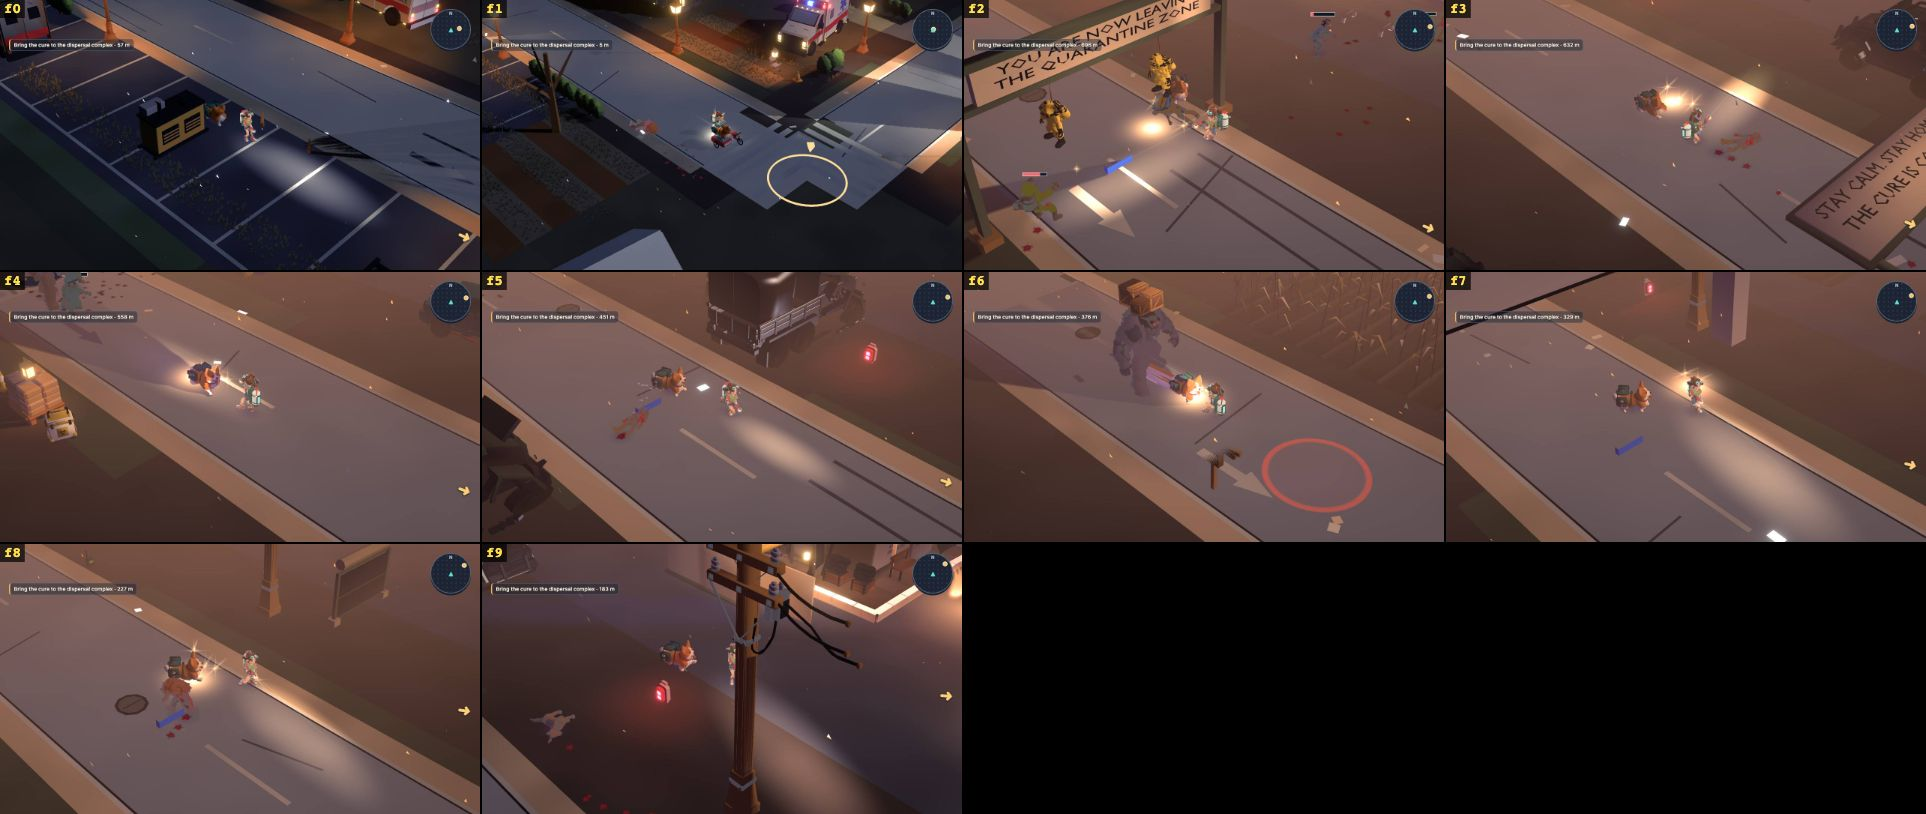
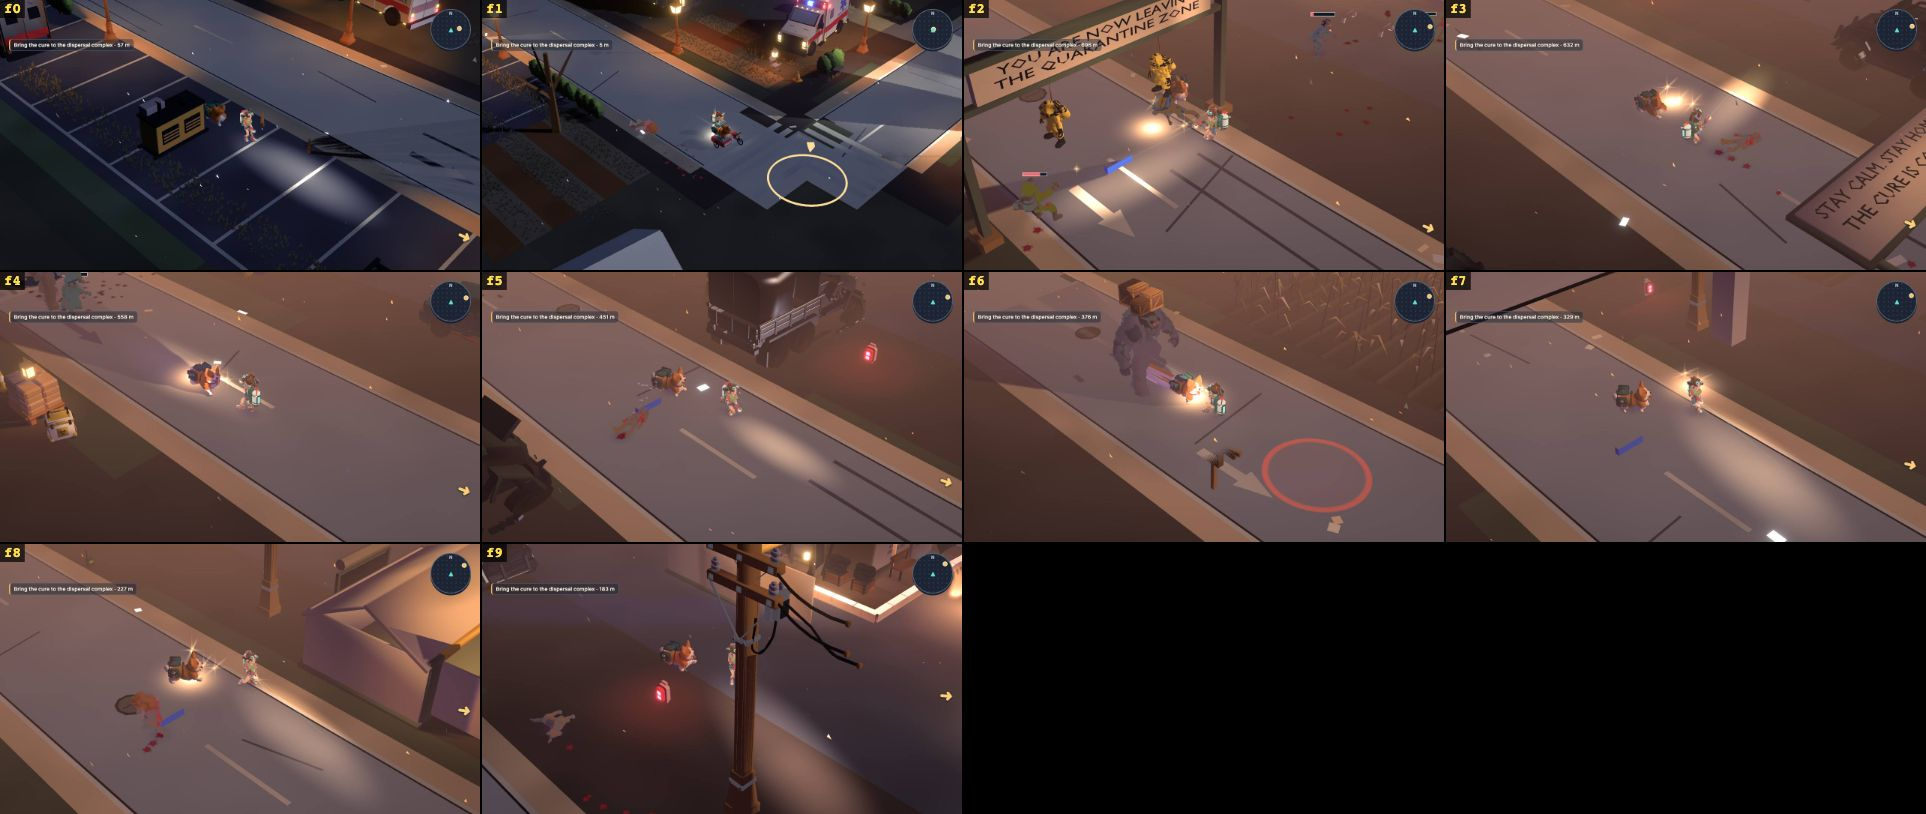
Bring hospital tent into finale camera view

Changed region(s): [[0.1558, 0.645, 0.2492, 0.9214], [0.0623, 0.8292, 0.1246, 0.9214]]

diff --git a/src/sim/missions/LevelTenEncounters.ts b/src/sim/missions/LevelTenEncounters.ts
@@ -358,7 +358,7 @@ export class LevelTenEncounters {
       if (group.setPiece === 'propaganda-billboard' && released.includes(group.id) && this.state.billboardFallAt === undefined &&
           Math.hypot(player.transform.x - 3086, player.transform.z - 92) <= 15) this.state.billboardFallAt = w.tick;
       if (group.setPiece === 'field-hospital' && released.includes(group.id) && this.state.hospitalOpenAt === undefined &&
-          Math.hypot(player.transform.x - 3508, player.transform.z - 78) <= 16) this.state.hospitalOpenAt = w.tick;
+          Math.hypot(player.transform.x - 3505, player.transform.z - 87) <= 16) this.state.hospitalOpenAt = w.tick;
       // The pre-staged opening wave can be spent on the approach. Before the
       // charge clock starts, hand off to the next cohort only when that wave
       // is empty; once charging, timed windows continue independently of it.

diff --git a/src/levels/L10/layout.ts b/src/levels/L10/layout.ts
@@ -193,8 +193,8 @@ export function levelTenLayouts(layouts: DistrictLayout[]): DistrictLayout[] {
       lamp.decorLights = true;
     }
     // Field triage on the final approach: quarantine tents and a marked transport.
-    for (const [i, x] of [3508, 3526, 3546].entries()) {
-      const z = i === 1 ? 80 : 78;
+    for (const [i, x] of [3505, 3526, 3546].entries()) {
+      const z = i === 0 ? 87 : i === 1 ? 80 : 78;
       beat(`hospital-tent-${i}`, 'prop.l10-field-tent', x, z, [2.2, 1.6, 3.4], i % 2 ? Math.PI : 0);
       beatSolid(`hospital-tent-${i}`, x, z, 1.6, 2.3, 2.8);
     }

diff --git a/docs/reports/s212f-finale/README.md b/docs/reports/s212f-finale/README.md
@@ -26,9 +26,11 @@ The native route still misses the 420–540 s hangar-to-gate duration and 45–7
 
 ## Visual evidence
 
-The [native HIGH zoom-1 sheet](native-finale-high.jpg) was captured from the research checkpoint with ordinary bot input and inspected. The capture advances the render clock with the simulation: without that, an explosion's white flash persisted in every later frame. Beat 0 shows the courier beside a generator; 1 shows the mounted bike and sidecar at an intersection; 2 shows the quarantine gantry and a fight; 3 shows the billboard at the frame edge; 4 shows road without readable scarecrows; 5 shows a truck and combat; 6 shows the Mega holding the crate; 7 shows road, a pier and an emergency light without a readable underpass; 8 shows road and a sign without readable hospital tents or silhouettes; 9 shows a utility pole and building without a readable gate or searchlight. The sheet confirms that the route and framing still need work.
+The [native HIGH zoom-1 sheet](native-finale-high.jpg) was captured from the research checkpoint with ordinary bot input and inspected. The capture advances the render clock with the simulation: without that, an explosion's white flash persisted in every later frame. Beat 0 shows the courier beside a generator; 1 shows the mounted bike and sidecar at an intersection; 2 shows the quarantine gantry and a fight; 3 shows the billboard at the frame edge; 4 shows road without readable scarecrows; 5 shows a truck and combat; 6 shows the Mega holding the crate; 7 shows road, a pier and an emergency light without a readable underpass; 8 shows the edge of a tent but no readable opening or silhouettes; 9 shows a utility pole and building without a readable gate or searchlight. The sheet confirms that the route and framing still need work.
 
 The capture now requires the billboard fall event for beat 3 and at least 15 ticks of hospital opening for beat 8. In the latest native HIGH run the events began at ticks 37200 and 43150; the captures were at 37260 and 43170. The hospital remained outside the readable frame even after its opening began.
+
+A subsequent render-batch probe showed all three hospital tents culled outside the beat-8 camera frustum. Moving the first tent to (3505, 87) brought it into the loaded LOD and partly into the frame. LOW and HIGH still completed with one and eleven deaths; the opening is not yet readable. The opening now starts at tick 42990 in the native capture.
 
 Moving the first tent from z=78 to z=85 and moving its opening trigger with it was also tried. The opening fired earlier, but the event-timed native frame still showed road and a sign rather than a readable tent. That placement was reverted; the placement-to-render path and occlusion need inspection before further coordinate changes.
 
